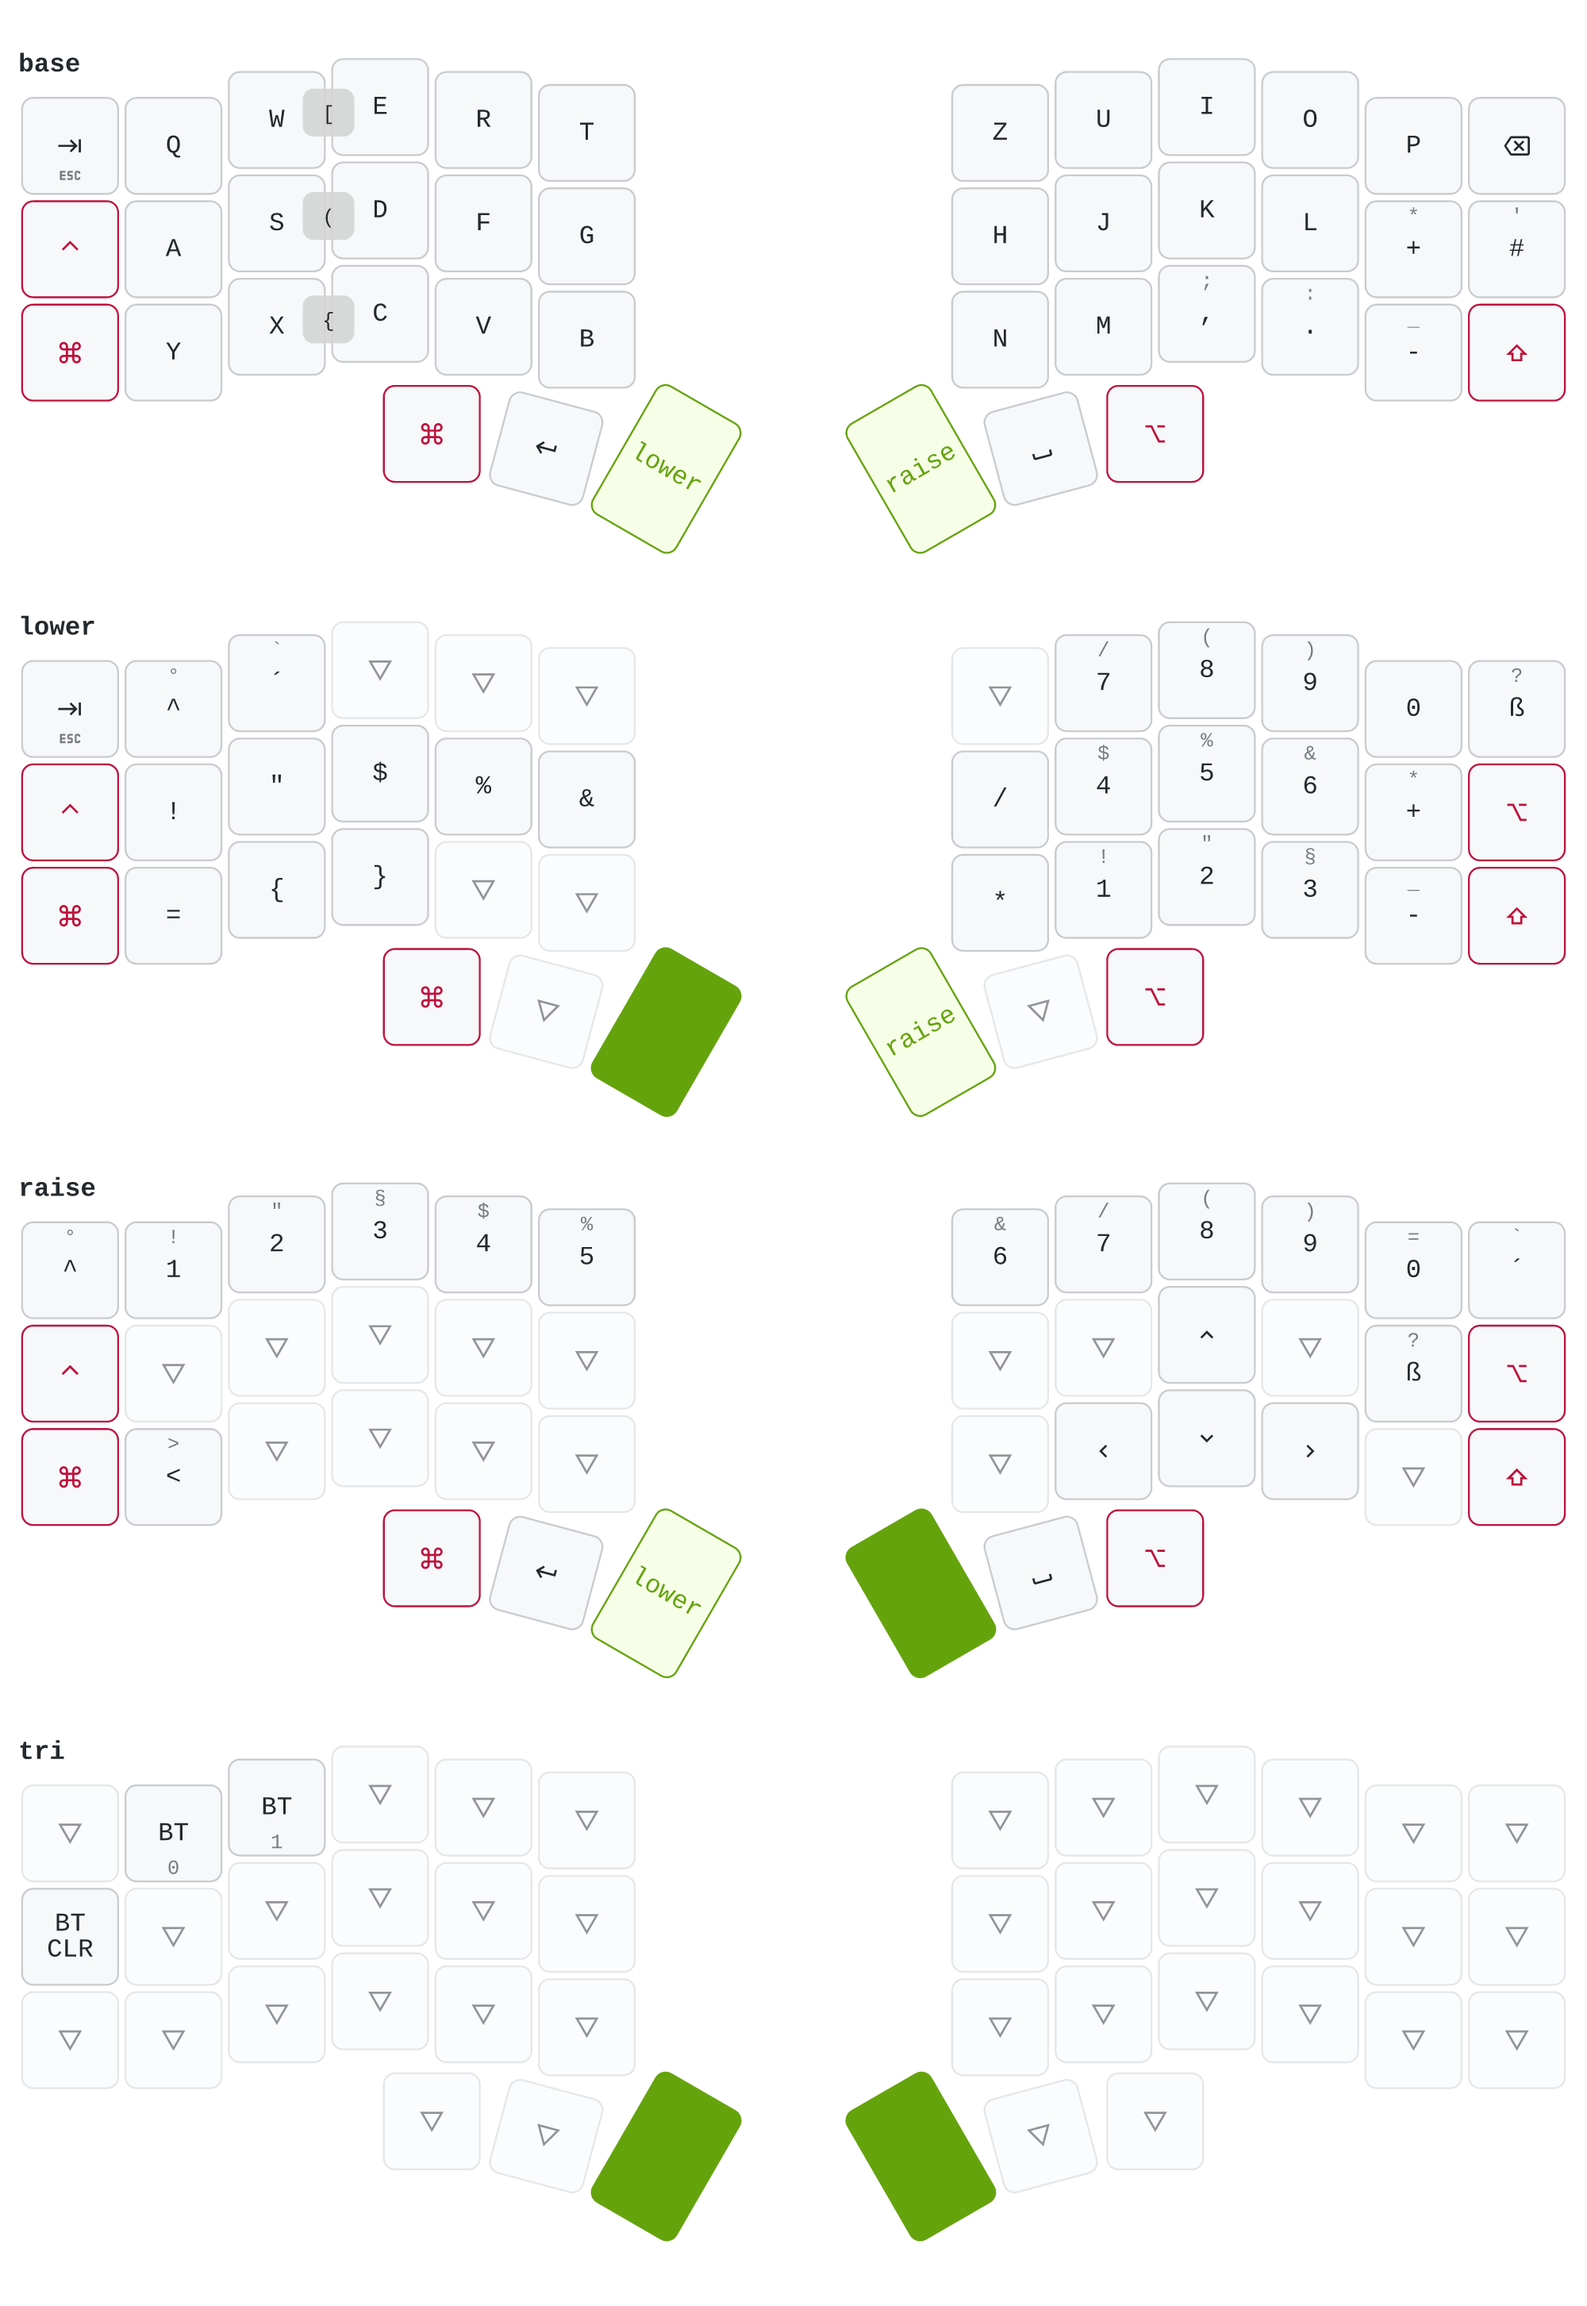
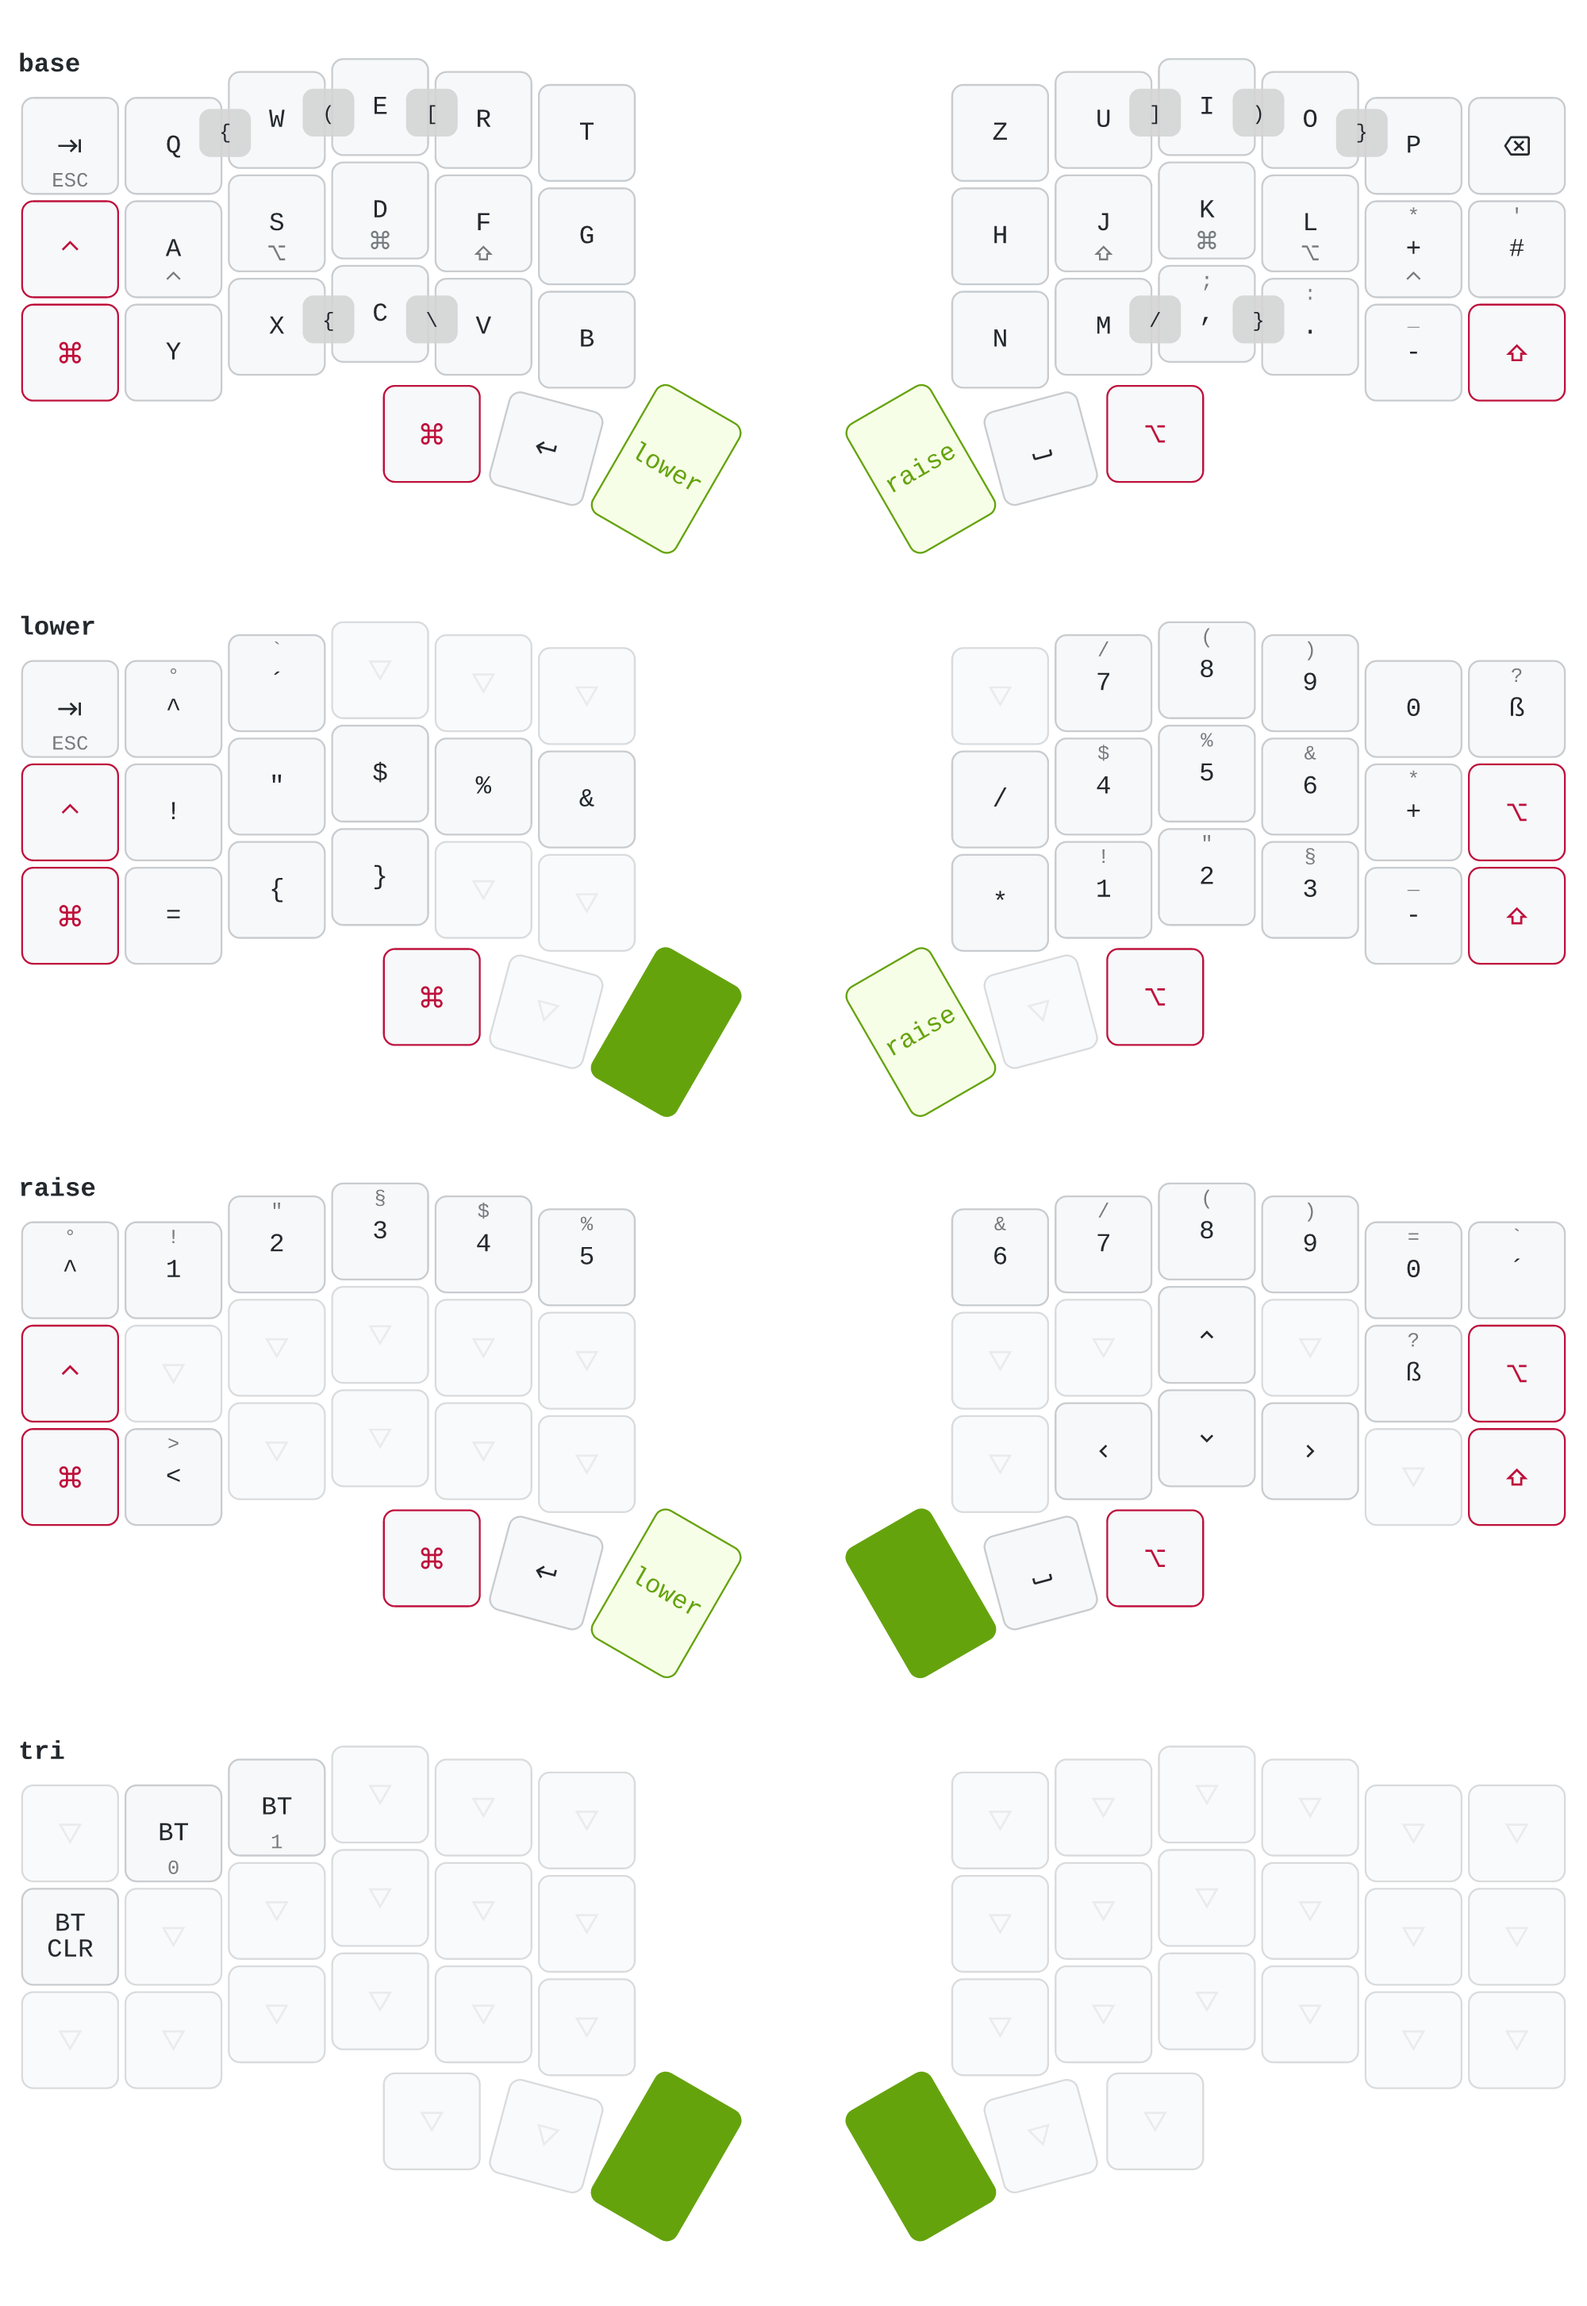
home row mods, modify bracket combos

diff --git a/keymap-drawer/style.scss b/keymap-drawer/style.scss
@@ -74,12 +74,22 @@ text.combo.hold, text.combo.shifted {
     font-size: 8px;
 }
 
-/* lighter symbol for transparent keys */
-text.trans {
-    fill: #7b7e81;
-}
-.key.trans{
-    opacity: 0.7;
+
+g.trans{
+  // <g class="key trans keypos-3">
+  //   <rect class="key trans" x="-26" y="-26" width="52" height="52" />
+  //   <use class="key trans tap glyph mdi:triangle-down-outline" href="#mdi:triangle-down-outline" xlink:href="#mdi:triangle-down-outline" x="-7" y="-7" height="14" width="14.0" />
+  //   <text class="key trans tap" x="0" y="0" >▽</text>
+  // </g>
+  opacity: 0.7;
+
+  text, .glyph{
+      opacity: .1
+  }
+
+  // text.trans {
+  //     fill: #7b7e81;
+  // }
 }
 
 /* styling for combo dendrons */

diff --git a/keymap-drawer/generate_config.py b/keymap-drawer/generate_config.py
@@ -15,7 +15,7 @@ HERE = Path(__file__).parent
 with open(HERE / "config.template.yaml") as f:
     keymap = yaml.load(f)
 
-with open(HERE / "style.css") as f:
+with open(HERE / "style.gen.css") as f:
     keymap["draw_config"]["svg_style"] = LS(f.read() + "\n" + keymap["draw_config"].get("svg_style", ""))
 with open(HERE / "raw_binding_map.gen.yaml")  as f:
     raw_binding_data = yaml.load(f)
